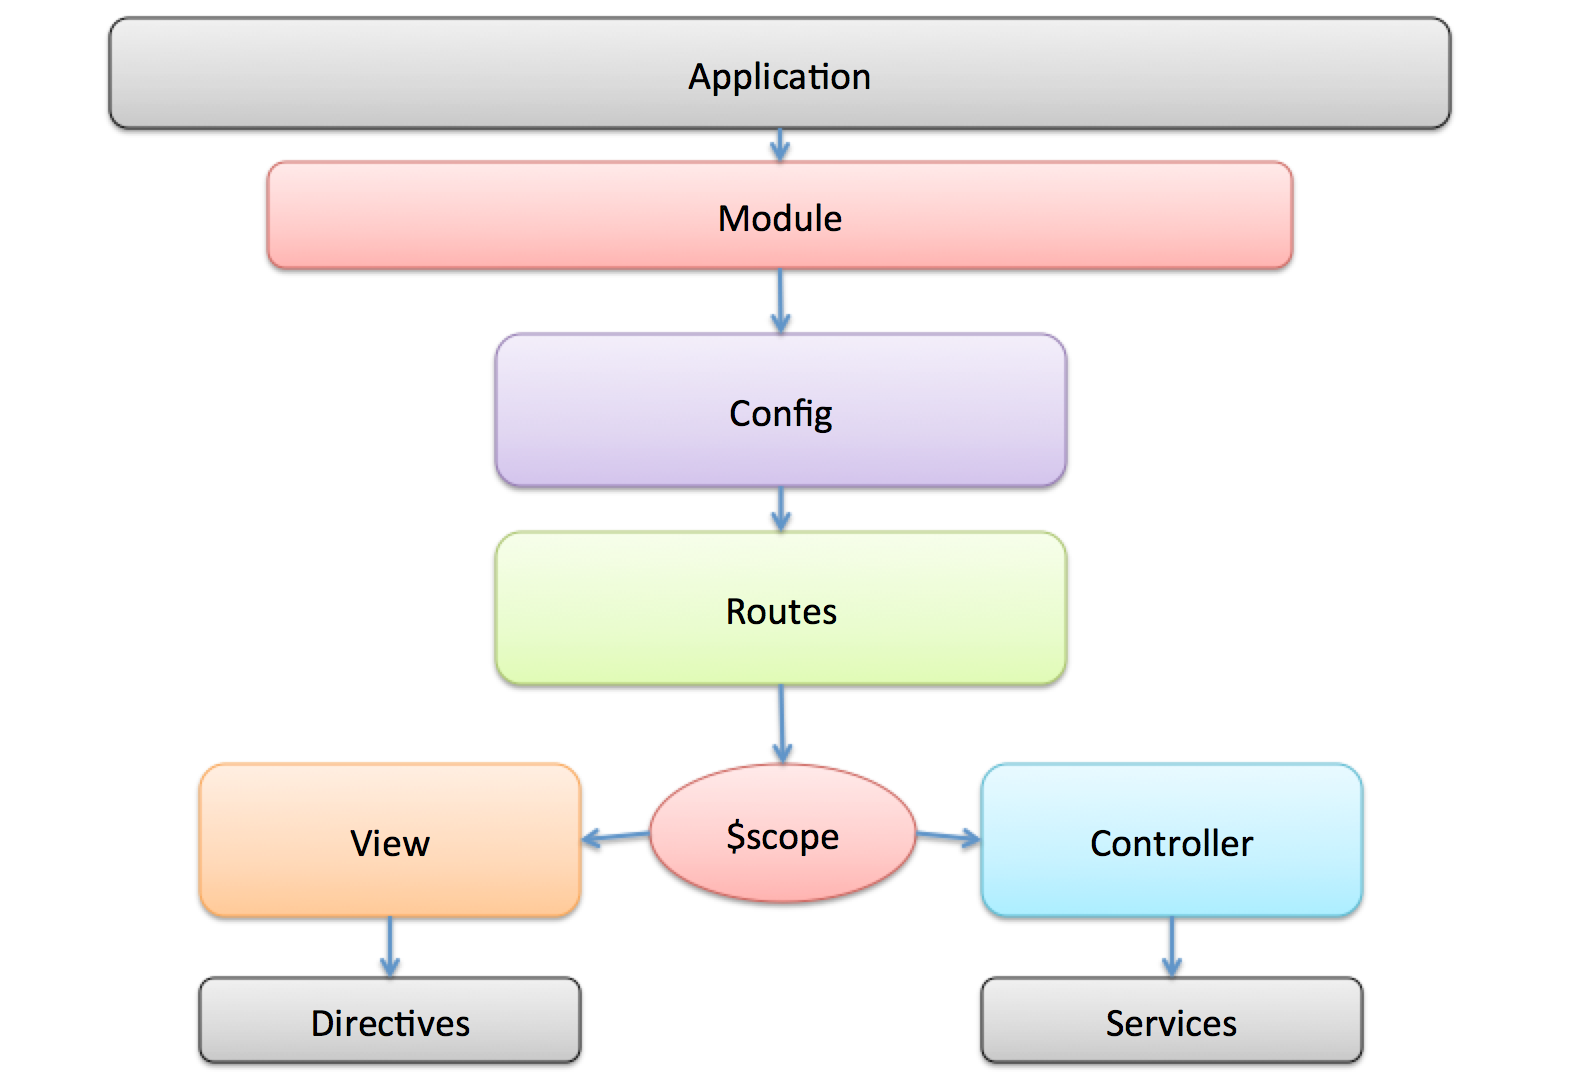
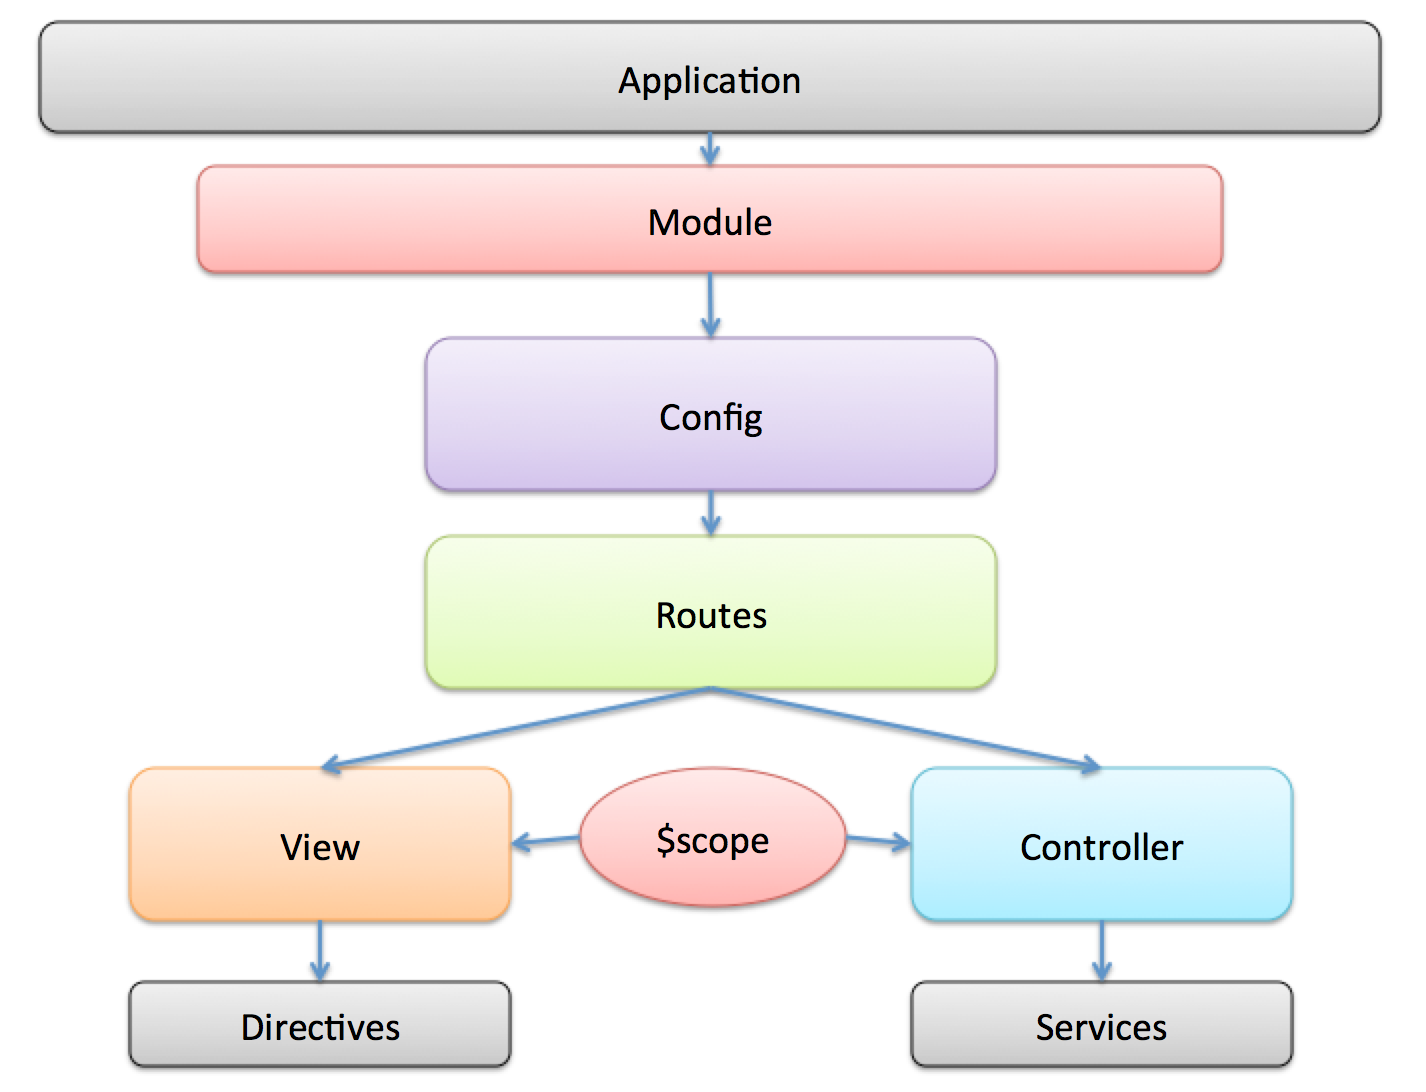
update
Update to session and code

diff --git a/sessions/F06.html b/sessions/F06.html
@@ -305,10 +305,10 @@
 		<article>
 			<h3>Scopes skapas i en hierarki</h3>
 			<ul>
-				<li>När en applikation skapas skapas $rootScope</li>
-				<li>Vid t.ex. directivet ng-controller skpas en ny Scope-instans</li>
+				<li>När en applikation kör igång skapas $rootScope</li>
+				<li>Vid t.ex. directivet ng-controller skapas en ny Scope-instans</li>
 				<li>ViewModel? Modeller är javascriptobject som deklareras på $scope</li>
-				<li>Isolerade namespace, undviker namnkrockar, effektiv minneshanering</li>
+				<li>Isolerade namespace, undviker namnkrockar, effektiv minneshantering</li>
 			</ul>
 			<br />
 			<p class="c">
@@ -323,7 +323,7 @@
 		<!-- Overview -->
 		<article>
 			<p class="c">
-				<img src="images/angular-arch.png" width="90%"/>
+				<img src="images/angular-arch.png" width="80%"/>
 			</p>
 			<p class="cc">Inspired: 
 				<a href="http://weblogs.asp.net/dwahlin/archive/2013/04/12/video-tutorial-angularjs-fundamentals-in-60-ish-minutes.aspx">http://weblogs.asp.net/dwahlin/archive/2013/04/12/video-tutorial-angularjs-fundamentals-in-60-ish-minutes.aspx</a> 
@@ -370,22 +370,32 @@
 				<li>Moduler för att organisera sin kod</li>
 				<li>Men också för att beskriva beroenden - Dependency injections</li>
 				<li>Enkelt att byta ut de olika delarna</li>
-				<li>Registrera "recept" för olika objects skapande</li>
+				<li>Registrera "recept" för olika objekts skapande -använd aldrig "new"</li>
 				<li>"Angular modules solve the problem of removing global state from the application and provide a way of configuring the injector."</li>
-				<li>"Angular modules don't try to solve the problem of script load ordering or lazy script fetching."</li>
+				<li>"Angular modules don't try to solve the problem of script load ordering or lazy script fetching." - require.js</li>
 				
 			</ul>
+			<p>
+				Läs Kozlowski, Darwin sid 27-37!
+			</p>
 		</article>
 		
 		<!-- Services -->
-		<article>
+		<article class="fill">
+			<img src="http://farm9.staticflickr.com/8179/7972185654_e15db45fcc_b.jpg">
 			<h3>Services</h3>
+			<p>
+				Objekt som skapas genom Dependency Injection ($injector) kallas Services
+			</p>
 			<ul>
-				<li>Value</li>
+				
 				<li>Services</li>
 				<li>Factories</li>
 				<li>Providers</li>
 			</ul>
+			<p class="cc">Foto cc by: 
+				<a href="http://www.flickr.com/photos/seattlemunicipalarchives/">http://www.flickr.com/photos/seattlemunicipalarchives/</a> 
+			</p>
 		</article>
 		
 		<!-- Applikationsstruktur -->
@@ -401,11 +411,9 @@
 		</article>
 		
 		<!-- Sista exempel -->
-		<article>
-			<h3>Applikationsstruktur</h3>
-			<p class="c">
-				<img src="images/ng-structure.png" height="500px">
-			</p>
+		<article class="fill">
+			<h3>Applikation</h3>
+			<img src="images/football1.png" >
 			<p class="note">
 				Visa ett practice på hur man strukturerar en javascript
 				applikation

diff --git a/example/angapp/app/factories/teamFactory.js b/example/angapp/app/factories/teamFactory.js
@@ -1,16 +1,17 @@
 /**
  * Use this service/factory to handle the teams data
- *
+ * This solution could be little chatty to loacalstorage
+ * but for this example its OK
  */
-app.factory('teamFactory', function(localStorageFactory) {
+app.factory('teamFactory', ['localStorageFactory', function(dataStorage) { // inject localStorageFactory  call it dataStorage
 
     var teams = [];
     var factory = {};
 
     // read from localstorage
     factory.getTeams = function() {
-        if(localStorageFactory.canDo()) {
-            teams = localStorageFactory.load("teams") || [];
+        if(dataStorage.canDo()) {
+            teams = dataStorage.load("teams") || [];
         }
         else {
             alert("Sorry, no support");
@@ -21,18 +22,18 @@ app.factory('teamFactory', function(localStorageFactory) {
     // save to localstorage
     factory.addTeam = function(team) {
         teams.push(team);
-        localStorageFactory.save(team);
+        dataStorage.save(team);
     }
 
 
     factory.deleteTeam = function(team) {
         var i = teams.indexOf(team);
         teams.splice(i, 1);
-        localStorageFactory.delete(team);
+        dataStorage.delete(team);
     }
 
     factory.updateTeam = function(team) {
-        localStorageFactory.update(team);
+        dataStorage.update(team);
 
     }
 
@@ -42,7 +43,7 @@ app.factory('teamFactory', function(localStorageFactory) {
         for(var i = 0; i < teams.length; i++) {
             t = teams[i];
             if(t.name == name) {
-                return localStorageFactory.get(t.id);
+                return dataStorage.get(t.id);
             }
         }
         return null;
@@ -52,4 +53,4 @@ app.factory('teamFactory', function(localStorageFactory) {
     return factory;
 
 
-});
+}]);

diff --git a/example/angapp/app/controllers/controllers.js b/example/angapp/app/controllers/controllers.js
@@ -1,9 +1,10 @@
 
 // register the TeamController - The only controller in this application
 // the controller gets dependence injections; the scope, the routeParameters, location, and the factories
-app.controller("TeamController", function TeamController($scope, $routeParams, $location, teamFactory, localStorageFactory) {
+app.controller("TeamController", function TeamController($scope, $routeParams, $location, teamFactory) {
 
     // get all teams from the factory
+
     $scope.teams = teamFactory.getTeams() || [];
 
     // Don't really  like this !
